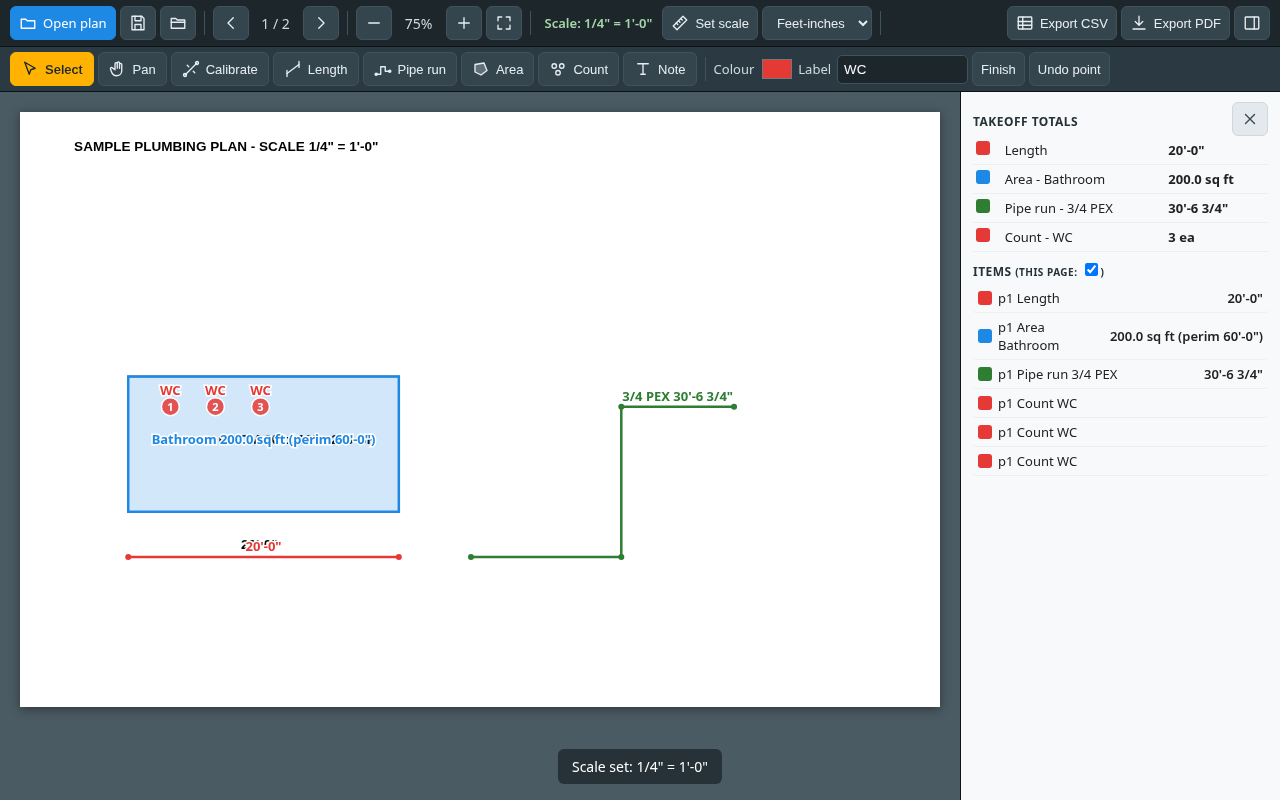
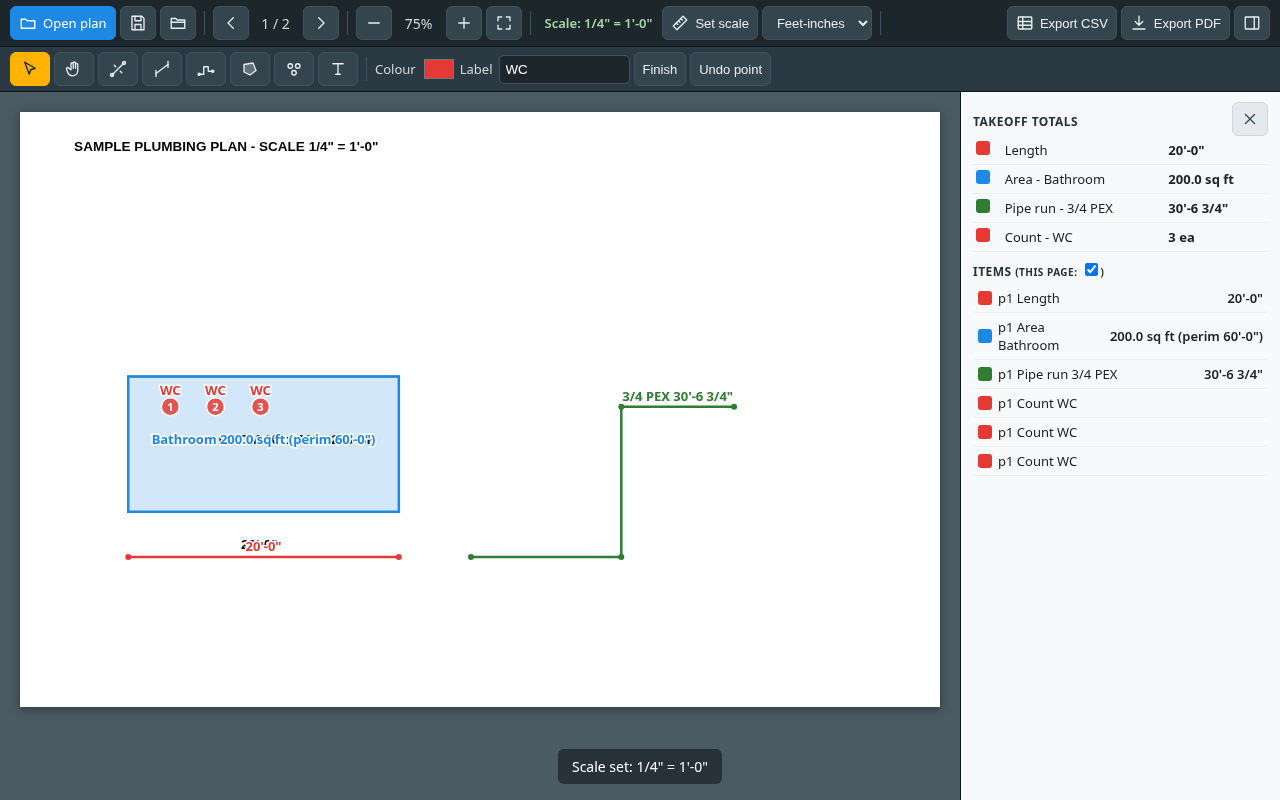
Magnifier loupe, touch press-drag placement, draggable/nudgeable calibration points

Changed region(s): [[0.0312, 0.0625, 0.6875, 0.125], [0.75, 0.0625, 0.875, 0.0938]]

diff --git a/app.js b/app.js
@@ -120,7 +120,8 @@ function draw() {
   svg.innerHTML = ''; if (!proj) return;
   const g = el('g', {}, svg);
   proj.items.filter(i => i.page === page).forEach(i => drawItem(i, g));
-  if (draft) { const pts = hover ? draft.pts.concat([hover]) : draft.pts; if (pts.length) drawItem({ ...draft, pts, page, label: draft.label }, g, true); }
+  if (draft) { const full = draft.type === 'calibrate' && draft.pts.length === 2; const pts = hover && !full ? draft.pts.concat([hover]) : draft.pts; if (pts.length) drawItem({ ...draft, pts, page, label: draft.label }, g, true);
+    const q = draft.pts[calSel]; if (q) el('circle', { cx: q[0], cy: q[1], r: 7 / zoom, fill: 'none', stroke: '#ffb300', 'stroke-width': 2.5 / zoom }, g); }
   renderList();
 }
 
@@ -186,6 +187,7 @@ function pagePt(e) { const r = svg.getBoundingClientRect(); return [(e.clientX -
 
 function finishDraft() {
   if (!draft) return;
+  if (draft.type === 'calibrate') { if (draft.pts.length === 2) openCalibrate(); return; }
   const need = { line: 2, poly: 2, area: 3 }[draft.type];
   if (draft.pts.length >= need) { const it = { id: uid(), type: draft.type, page, pts: draft.pts, color: draft.color, label: draft.label }; proj.items.push(it); selId = null; }
   draft = null; hover = null; changed();
@@ -200,9 +202,10 @@ function clickAt(p, e) {
     if (!draft) draft = { type: tool, pts: [], color: tool === 'calibrate' ? '#1976d2' : color, label: lab };
     const prev = draft.pts[draft.pts.length - 1]; if (e.shiftKey || shiftDown) p = snapOrtho(prev, p);
     if (prev && dist(prev, p) < 1e-6) return;
-    draft.pts.push(p);
+    if (tool === 'calibrate' && draft.pts.length >= 2) return;
+    draft.pts.push(p); calSel = draft.pts.length - 1;
     if ((tool === 'line' || tool === 'calibrate') && draft.pts.length === 2) {
-      if (tool === 'line') finishDraft(); else openCalibrate();
+      if (tool === 'line') finishDraft(); else { calSel = 1; toast('Adjust points if needed (drag, arrows), then Set distance.', 4000); }
     }
     draw();
   } else if (tool === 'count') { proj.items.push({ id: uid(), type: 'count', page, pts: [p], color, label: lab }); changed(); }
@@ -213,10 +216,12 @@ function clickAt(p, e) {
 const pointers = new Map(); let gesture = null;
 vpEl.addEventListener('pointerdown', e => {
   if (!doc) return; vpEl.setPointerCapture(e.pointerId); pointers.set(e.pointerId, { x: e.clientX, y: e.clientY });
-  if (pointers.size === 2) { const [a, b] = [...pointers.values()]; gesture = { kind: 'pinch', d: Math.hypot(a.x - b.x, a.y - b.y), z: zoom }; return; }
+  if (pointers.size === 2) { const [a, b] = [...pointers.values()]; gesture = { kind: 'pinch', d: Math.hypot(a.x - b.x, a.y - b.y), z: zoom, mx: (a.x + b.x) / 2, my: (a.y + b.y) / 2 }; hideLoupe(); return; }
   const p = pagePt(e);
   gesture = { kind: 'maybe', sx: e.clientX, sy: e.clientY, sl: vpEl.scrollLeft, st: vpEl.scrollTop, p, moved: false };
   if (e.button === 1 || tool === 'pan') { gesture.kind = 'pan'; return; }
+  if (draft && PLACE.includes(tool)) { const k = draft.pts.findIndex(q => dist(q, p) * zoom < (e.pointerType === 'touch' ? 22 : 10)); if (k >= 0 && (draft.type === 'calibrate' ? draft.pts.length === 2 : true)) { gesture.kind = 'dpt'; gesture.v = k; calSel = k; gesture.off = [draft.pts[k][0] - p[0], draft.pts[k][1] - p[1]]; showLoupe(draft.pts[k], e); draw(); return; } }
+  if (e.pointerType !== 'mouse' && PLACE.includes(tool) && !(tool === 'calibrate' && draft && draft.pts.length === 2)) { gesture.kind = 'place'; hover = placeSnap(p, e); showLoupe(hover, e); draw(); return; }
   if (tool === 'select') {
     const h = e.target.closest('.handle'), g = e.target.closest('g[data-id]');
     if (h && selId) { gesture.kind = 'vertex'; gesture.v = +h.dataset.v; return; }
@@ -227,21 +232,26 @@ vpEl.addEventListener('pointerdown', e => {
 vpEl.addEventListener('pointermove', e => {
   if (!doc) return;
   if (pointers.has(e.pointerId)) pointers.set(e.pointerId, { x: e.clientX, y: e.clientY });
-  if (gesture && gesture.kind === 'pinch' && pointers.size === 2) { const [a, b] = [...pointers.values()]; setZoom(gesture.z * Math.hypot(a.x - b.x, a.y - b.y) / gesture.d, (a.x + b.x) / 2, (a.y + b.y) / 2); return; }
+  if (gesture && gesture.kind === 'pinch' && pointers.size === 2) { const [a, b] = [...pointers.values()]; const mx = (a.x + b.x) / 2, my = (a.y + b.y) / 2; setZoom(gesture.z * Math.hypot(a.x - b.x, a.y - b.y) / gesture.d, mx, my); vpEl.scrollLeft -= mx - gesture.mx; vpEl.scrollTop -= my - gesture.my; gesture.mx = mx; gesture.my = my; return; }
   const p = pagePt(e);
   if (gesture) {
     const mv = Math.hypot(e.clientX - gesture.sx, e.clientY - gesture.sy) > 5; if (mv) gesture.moved = true;
     if (gesture.kind === 'pan' || (gesture.kind === 'maybe' && gesture.moved && e.pointerType === 'touch')) { gesture.kind = 'pan'; vpEl.scrollLeft = gesture.sl - (e.clientX - gesture.sx); vpEl.scrollTop = gesture.st - (e.clientY - gesture.sy); return; }
+    if (gesture.kind === 'place') { hover = placeSnap(p, e); draw(); showLoupe(hover, e); return; }
+    if (gesture.kind === 'dpt') { draft.pts[gesture.v] = [p[0] + gesture.off[0], p[1] + gesture.off[1]]; draw(); showLoupe(draft.pts[gesture.v], e); return; }
     if (gesture.kind === 'vertex') { const it = selItem(); let q = p; const prev = it.pts[gesture.v - 1] || it.pts[gesture.v + 1]; if (e.shiftKey) q = snapOrtho(prev, q); it.pts[gesture.v] = q; draw(); return; }
     if (gesture.kind === 'move' && gesture.moved) { const it = selItem(); const dx = p[0] - gesture.p[0], dy = p[1] - gesture.p[1]; it.pts = gesture.orig.map(q => [q[0] + dx, q[1] + dy]); draw(); return; }
   }
   if (draft) { const prev = draft.pts[draft.pts.length - 1]; hover = (e.shiftKey || shiftDown) ? snapOrtho(prev, p) : p; draw(); }
+  if (PLACE.includes(tool) && !(draft && draft.type === 'calibrate' && draft.pts.length === 2)) showLoupe(placeSnap(p, e), e); else if (!gesture) hideLoupe();
 });
 function endPointer(e) {
   pointers.delete(e.pointerId);
   if (!gesture) return; const g = gesture;
   if (g.kind === 'pinch') { if (pointers.size === 0) gesture = null; return; }
   gesture = null;
+  if (g.kind === 'place') { hideLoupe(); hover = null; if (e.type === 'pointerup') clickAt(pagePt(e), e); else draw(); return; }
+  if (g.kind === 'dpt') { if (e.pointerType !== 'mouse') hideLoupe(); draw(); return; }
   if (g.kind === 'vertex' || g.kind === 'move') { changed(); return; }
   if (g.kind === 'pan') { if (g.desel && !g.moved) { selId = null; draw(); } return; }
   if (g.kind === 'maybe' && !g.moved && e.type === 'pointerup') clickAt(pagePt(e), e);
@@ -252,7 +262,10 @@ vpEl.addEventListener('dblclick', e => { if (draft && (draft.type === 'poly' || 
 document.addEventListener('keydown', e => {
   if (e.key === 'Shift') shiftDown = true;
   if (e.target.matches('input,textarea,select')) return;
-  if (e.key === 'Enter') finishDraft();
+  if (e.key.startsWith('Arrow') && draft && draft.pts.length) { e.preventDefault(); const d = { ArrowLeft: [-1, 0], ArrowRight: [1, 0], ArrowUp: [0, -1], ArrowDown: [0, 1] }[e.key]; nudge(d[0], d[1]); return; }
+  if (e.key.toLowerCase() === 'm' && !e.ctrlKey && !e.metaKey) { toggleLoupe(); return; }
+  if (e.key === 'Tab' && draft && draft.pts.length > 1) { e.preventDefault(); calSel = (calSel + 1) % draft.pts.length; draw(); return; }
+  if (e.key === 'Enter') { e.preventDefault(); finishDraft(); }
   else if (e.key === 'Escape') { draft = null; hover = null; selId = null; draw(); }
   else if (e.key === 'Delete' || (e.key === 'Backspace' && !draft)) deleteSel();
   else if (e.key === 'Backspace' && draft) { draft.pts.pop(); if (!draft.pts.length) draft = null; draw(); }
@@ -269,8 +282,9 @@ $('#scaleDlg').addEventListener('close', () => { if ($('#scaleDlg').returnValue 
   let m = s.mPerPt; if (doc.type === 'image') m = s.ratio * Units.IN / (+$('#imgDpi').value || 150); applyScale(m, s.name, $('#allPages').checked); });
 function openCalibrate() { $('#calVal').value = ''; $('#calDlg').showModal(); }
 $('#calDlg').addEventListener('close', () => {
-  const pts = draft && draft.pts; draft = null; hover = null;
+  const pts = draft && draft.pts;
   if ($('#calDlg').returnValue === 'ok' && pts && pts.length === 2) {
+    draft = null; hover = null;
     const real = Units.parseLength($('#calVal').value, proj.units);
     if (!(real > 0)) { toast('Could not read that length. Try again.'); draw(); return; }
     applyScale(real / dist(pts[0], pts[1]), 'calibrated ' + Units.fmtLen(real, proj.units), $('#calAll').checked);
@@ -348,7 +362,7 @@ $('#projList').addEventListener('click', async e => { const o = e.target.dataset
 setTool('select'); $('#hint').textContent = 'Open a PDF or image plan to start. Your work is saved automatically in this browser.';
 (async () => { const last = localStorage.getItem('pm-last'); if (last) try { await openProject(last); } catch (e) { } })();
 // test hook
-window.PM = { get proj() { return proj; }, get doc() { return doc; }, measure, buildCSV, buildPDF, setTool, gotoPage, applyScale, get zoom() { return zoom; } };
+window.PM = { get draft() { return draft; }, get proj() { return proj; }, get doc() { return doc; }, measure, buildCSV, buildPDF, setTool, gotoPage, applyScale, get zoom() { return zoom; } };
 $('#calVal').addEventListener('keydown', e => { if (e.key === 'Enter') { e.preventDefault(); $('#calDlg').close('ok'); } });
 // ---- icons (inline SVG, no external assets) ----
 const ICONS = {
@@ -357,7 +371,7 @@ const ICONS = {
  fit:'<path d="M4 9V4h5M20 9V4h-5M4 15v5h5M20 15v5h-5"/>', ruler:'<path d="M3 16L16 3l5 5L8 21z"/><path d="M7 12l2 2M10 9l2 2M13 6l2 2"/>',
  table:'<rect x="3" y="4" width="18" height="16" rx="1"/><path d="M3 10h18M3 15h18M9 4v16"/>', download:'<path d="M12 3v12M7 10l5 5 5-5M4 20h16"/>',
  panel:'<rect x="3" y="4" width="18" height="16" rx="1"/><path d="M15 4v16"/>', close:'<path d="M6 6l12 12M18 6L6 18"/>',
- select:'<path d="M5 3l14 8-6 2-2 6z"/>', hand:'<path d="M8 13V5a1.5 1.5 0 013 0v6M11 11V4a1.5 1.5 0 013 0v7M14 11V6a1.5 1.5 0 013 0v8c0 4-3 7-7 7s-6-3-7-6l-1-3a1.5 1.5 0 012.5-1.5L8 13"/>',
+ select:'<path d="M5 3l14 8-6 2-2 6z"/>', loupe:'<circle cx="10" cy="10" r="6"/><path d="M14.5 14.5L20 20M10 7v6M7 10h6"/>', up:'<path d="M5 15l7-7 7 7"/>', down:'<path d="M5 9l7 7 7-7"/>', more:'<circle cx="5" cy="12" r="1.6"/><circle cx="12" cy="12" r="1.6"/><circle cx="19" cy="12" r="1.6"/>', hand:'<path d="M8 13V5a1.5 1.5 0 013 0v6M11 11V4a1.5 1.5 0 013 0v7M14 11V6a1.5 1.5 0 013 0v8c0 4-3 7-7 7s-6-3-7-6l-1-3a1.5 1.5 0 012.5-1.5L8 13"/>',
  cal:'<path d="M4 20L20 4"/><circle cx="4" cy="20" r="2"/><circle cx="20" cy="4" r="2"/><path d="M9 9l-2-2M15 15l2 2"/>', line:'<path d="M4 18L20 6"/><path d="M4 14v8M20 2v8"/>',
  poly:'<path d="M3 19h6V9h6v6h6"/><circle cx="3" cy="19" r="1.5"/><circle cx="21" cy="15" r="1.5"/>', area:'<path d="M4 6l12-2 4 10-8 6-8-4z" fill="currentColor" fill-opacity=".25"/>',
  count:'<circle cx="7" cy="8" r="3"/><circle cx="17" cy="8" r="3"/><circle cx="12" cy="17" r="3"/>', text:'<path d="M5 5h14M12 5v14M9 19h6"/>'
@@ -402,3 +416,65 @@ function updateSheet() { if (!proj) return; const g = groups(); $('#units2').val
   $('.chev').textContent = document.body.classList.contains('sheetopen') ? 'Hide' : 'Show'; }
 document.addEventListener('gesturestart', e => e.preventDefault());
 placeDrawControls(); layout();
+// ---- magnifier loupe + nudge ----
+ICONS.loupe = '<circle cx="10" cy="10" r="6"/><path d="M14.5 14.5L20 20M10 7v6M7 10h6"/>';
+ICONS.up = '<path d="M5 15l7-7 7 7"/>'; ICONS.down = '<path d="M5 9l7 7 7-7"/>';
+document.querySelectorAll('#loupeBtn,.nud').forEach(b => { if (b.querySelector('svg')) return; const txt = b.textContent.trim(); b.textContent = ''; b.insertAdjacentHTML('afterbegin', `<svg class="ic" viewBox="0 0 24 24">${ICONS[b.dataset.icon]}</svg>` + (txt ? `<span class="t">${txt}</span>` : '')); });
+const PLACE = ['calibrate', 'line', 'poly', 'area'];
+let calSel = 0, loupeOn = localStorage.getItem('pm-loupe') !== '0', loupeTask = null, loupeBusy = false, loupeWant = null;
+const LSZ = 140, lc = $('#loupe');
+function placeSnap(p, e) { if (!draft || !draft.pts.length || !(e.shiftKey || shiftDown)) return p; return snapOrtho(draft.pts[draft.pts.length - 1], p); }
+function toggleLoupe() { loupeOn = !loupeOn; localStorage.setItem('pm-loupe', loupeOn ? '1' : '0'); $('#loupeBtn').classList.toggle('on', loupeOn); if (!loupeOn) hideLoupe(); toast('Magnifier ' + (loupeOn ? 'on' : 'off')); }
+$('#loupeBtn').classList.toggle('on', loupeOn); $('#loupeBtn').onclick = toggleLoupe;
+function hideLoupe() { lc.style.display = 'none'; loupeWant = null; }
+function showLoupe(p, e) {
+  if (!loupeOn || !doc || !p) return hideLoupe();
+  const dpr = window.devicePixelRatio || 1, L = Math.round(LSZ * dpr);
+  if (lc.width !== L) { lc.width = L; lc.height = L; }
+  const touch = e.pointerType && e.pointerType !== 'mouse';
+  let x = touch ? e.clientX - LSZ / 2 : e.clientX + 24, y = touch ? e.clientY - LSZ - 60 : e.clientY - LSZ - 24;
+  if (y < 4) y = touch ? e.clientY + 60 : e.clientY + 24; x = Math.max(4, Math.min(innerWidth - LSZ - 4, x));
+  if (!touch && x < e.clientX && x + LSZ > e.clientX && y < e.clientY && y + LSZ > e.clientY) x = e.clientX - LSZ - 24;
+  lc.style.left = x + 'px'; lc.style.top = y + 'px'; lc.style.display = 'block';
+  const mag = +$('#loupeMag').value, S = zoom * mag * dpr; // device px per page unit inside loupe
+  const ctx = lc.getContext('2d');
+  // instant preview from the main canvas
+  const k = canvas.width / doc.sizes[page].w, half = L / 2 / S;
+  ctx.fillStyle = '#fff'; ctx.fillRect(0, 0, L, L);
+  if (canvas.width) ctx.drawImage(canvas, (p[0] - half) * k, (p[1] - half) * k, 2 * half * k, 2 * half * k, 0, 0, L, L);
+  loupeOverlay(ctx, p, S, L);
+  loupeWant = { p: p.slice(), S, L, pg: page }; sharpLoupe();
+}
+async function sharpLoupe() {
+  if (loupeBusy || !loupeWant) return; const w = loupeWant; loupeBusy = true;
+  try {
+    const off = document.createElement('canvas'); off.width = w.L; off.height = w.L; const oc = off.getContext('2d'); oc.fillStyle = '#fff'; oc.fillRect(0, 0, w.L, w.L);
+    if (doc.type === 'pdf') { const pg = await doc.pdf.getPage(w.pg); const vp = pg.getViewport({ scale: w.S, offsetX: -(w.p[0] * w.S - w.L / 2), offsetY: -(w.p[1] * w.S - w.L / 2) });
+      await pg.render({ canvasContext: oc, viewport: vp }).promise; }
+    else { const h = w.L / 2 / w.S; oc.imageSmoothingEnabled = false; oc.drawImage(doc.img, w.p[0] - h, w.p[1] - h, 2 * h, 2 * h, 0, 0, w.L, w.L); }
+    if (loupeWant && lc.style.display !== 'none' && loupeWant.pg === w.pg) { const cur = loupeWant, ctx = lc.getContext('2d');
+      if (cur.p[0] === w.p[0] && cur.p[1] === w.p[1] && cur.S === w.S) { ctx.drawImage(off, 0, 0); loupeOverlay(ctx, w.p, w.S, w.L); lc.dataset.sharp = '1'; } }
+  } catch (err) { }
+  loupeBusy = false; if (loupeWant && (loupeWant.p[0] !== w.p[0] || loupeWant.p[1] !== w.p[1] || loupeWant.S !== w.S)) { lc.dataset.sharp = ''; setTimeout(sharpLoupe, 30); }
+}
+function loupeOverlay(ctx, p, S, L) {
+  const T = q => [(q[0] - p[0]) * S + L / 2, (q[1] - p[1]) * S + L / 2], dpr = window.devicePixelRatio || 1;
+  if (draft && draft.pts.length) { ctx.strokeStyle = draft.color; ctx.lineWidth = 1.5 * dpr; ctx.beginPath(); draft.pts.forEach((q, i) => { const [x, y] = T(q); i ? ctx.lineTo(x, y) : ctx.moveTo(x, y); }); if (!(draft.type === 'calibrate' && draft.pts.length === 2) && hover) { const [x, y] = T(hover); ctx.lineTo(x, y); } ctx.stroke();
+    draft.pts.forEach((q, i) => { const [x, y] = T(q); ctx.beginPath(); ctx.arc(x, y, (i === calSel ? 5 : 3) * dpr, 0, 7); ctx.strokeStyle = i === calSel ? '#ffb300' : draft.color; ctx.stroke(); }); }
+  ctx.strokeStyle = '#e53935'; ctx.lineWidth = 1 * dpr; const c = L / 2, g = 6 * dpr; ctx.beginPath();
+  ctx.moveTo(0, c); ctx.lineTo(c - g, c); ctx.moveTo(c + g, c); ctx.lineTo(L, c); ctx.moveTo(c, 0); ctx.lineTo(c, c - g); ctx.moveTo(c, c + g); ctx.lineTo(c, L); ctx.stroke();
+  ctx.fillStyle = '#e53935'; ctx.fillRect(c - dpr / 2, c - dpr / 2, dpr, dpr);
+  ctx.fillStyle = '#263238cc'; ctx.fillRect(L / 2 - 16 * dpr, L - 18 * dpr, 32 * dpr, 14 * dpr); ctx.fillStyle = '#fff'; ctx.font = `${10 * dpr}px sans-serif`; ctx.textAlign = 'center'; ctx.fillText($('#loupeMag').value + 'x', L / 2, L - 7 * dpr);
+}
+function nudge(dx, dy) { if (!draft || !draft.pts.length) return; const i = Math.min(calSel, draft.pts.length - 1), q = draft.pts[i]; draft.pts[i] = [q[0] + dx / zoom, q[1] + dy / zoom]; draw();
+  const r = svg.getBoundingClientRect(); showLoupe(draft.pts[i], { clientX: r.left + draft.pts[i][0] * zoom, clientY: r.top + draft.pts[i][1] * zoom, pointerType: phoneMQ.matches ? 'touch' : 'mouse' }); clearTimeout(nudge.t); nudge.t = setTimeout(hideLoupe, 1500); }
+document.querySelectorAll('.nud').forEach(b => b.onclick = () => { const [x, y] = b.dataset.n.split(',').map(Number); nudge(x, y); });
+$('#ptSel').onclick = () => { if (draft && draft.pts.length > 1) { calSel = (calSel + 1) % draft.pts.length; draw(); } };
+$('#calSetBtn').onclick = () => finishDraft();
+$('#loupeMag').addEventListener('change', () => { if (loupeWant) { const r = svg.getBoundingClientRect(); } });
+vpEl.addEventListener('pointerleave', e => { if (e.pointerType === 'mouse' && !gesture) hideLoupe(); });
+const _udb = updateDrawBar; updateDrawBar = function () { _udb(); const adj = !!draft && draft.pts.length > 0 && PLACE.includes(tool);
+  document.body.classList.toggle('adj', adj); document.body.classList.toggle('caladj', !!draft && draft.type === 'calibrate' && draft.pts.length === 2);
+  document.body.classList.toggle('placing', PLACE.includes(tool)); $('#ptSel').textContent = 'Point ' + (Math.min(calSel, draft ? draft.pts.length - 1 : 0) + 1); };
+const _setTool = setTool; setTool = function (t) { hideLoupe(); _setTool(t); };
+document.querySelectorAll('.tool').forEach(b => b.onclick = () => setTool(b.dataset.tool));

diff --git a/index.html b/index.html
@@ -34,6 +34,8 @@
   <button data-tool="text" data-icon="text" class="tool" title="Text note (T)">Note</button>
   <span class="sep"></span><div class="opt"><label>Colour <input id="color" type="color" value="#e53935"></label></div>
   <div class="opt"><label>Label <input id="label" type="text" placeholder="e.g. WC, 3/4 PEX" size="10"></label></div>
+  <div class="opt lp"><button id="loupeBtn" class="btn small on" data-icon="loupe" title="Magnifier (M)">Loupe</button><select id="loupeMag" title="Magnifier zoom"><option value="2">2x</option><option value="3">3x</option><option value="4" selected>4x</option><option value="6">6x</option><option value="8">8x</option></select></div>
+  <div class="opt calbar"><button id="ptSel" class="btn small" title="Choose point to nudge (Tab)">Point 2</button><button class="btn small nud" data-n="-1,0" title="Nudge left" data-icon="left"></button><button class="btn small nud" data-n="0,-1" title="Nudge up" data-icon="up"></button><button class="btn small nud" data-n="0,1" title="Nudge down" data-icon="down"></button><button class="btn small nud" data-n="1,0" title="Nudge right" data-icon="right"></button><button id="calSetBtn" class="btn small primary" title="Enter the known distance (Enter)">Set distance</button></div>
   <button id="finishBtn" class="btn small" title="Finish run / area (Enter)">Finish</button>
   <button id="undoPt" class="btn small" title="Remove last point (Backspace)">Undo point</button>
   <div class="hint" id="hint">Open a PDF or image plan to start.</div>
@@ -87,6 +89,7 @@
   <menu><button value="cancel" class="btn">Close</button></menu>
 </form></dialog>
 <div id="toast"></div>
+<canvas id="loupe" width="140" height="140"></canvas>
 <script src="lib/pdf.min.js"></script>
 <script src="lib/pdf-lib.min.js"></script>
 <script src="units.js"></script>

diff --git a/style.css b/style.css
@@ -123,3 +123,22 @@ button,label,select,input{touch-action:manipulation}
   #moreBtn{margin-left:0}#moreBtn .t{display:none}
   #toast{bottom:calc(150px + env(safe-area-inset-bottom));max-width:90vw;text-align:center}
 }
+/* ---- loupe ---- */
+#loupe{position:fixed;width:140px;height:140px;border-radius:50%;border:3px solid #263238;box-shadow:0 4px 18px #0007,0 0 0 2px #fff inset;pointer-events:none;z-index:30;display:none;background:#fff}
+#loupeBtn.on{background:#1e88e5;border-color:#1e88e5;color:#fff}
+.opt.lp{display:none;gap:4px;align-items:center}body.placing .opt.lp{display:flex}
+.opt.lp select{min-height:30px;padding:2px 4px}
+.opt.calbar{display:none;gap:4px;align-items:center}body.adj .opt.calbar{display:flex}
+body:not(.caladj) #calSetBtn{display:none}
+.nud{padding:4px 6px!important}
+@media (max-width:700px){
+  body.cal #drawSlot .opt.lp,body.cal #drawSlot .opt.calbar{display:none}
+  body.cal.placing #drawSlot .opt.lp{display:flex}body.cal.adj #drawSlot .opt.calbar{display:flex}
+  body.adj #drawSlot .opt.lp{display:none}
+  #drawSlot{overflow-x:auto}
+  .nud{min-width:40px;justify-content:center}
+}
+@media (min-width:701px){#tools{flex-wrap:nowrap;overflow-x:auto;scrollbar-width:thin}#tools>*{flex:none}#tools .hint{flex:1 1 0;min-width:0;white-space:nowrap;overflow:hidden;text-overflow:ellipsis}}
+@media (min-width:701px) and (max-width:1500px){#tools .tool span.t{display:none}}
+@media (max-width:700px){body.caladj #undoPt{display:none}body.caladj #cancelBtn .t{display:none}body.caladj #ptSel{padding:4px 6px}}
+@media (max-width:700px){body.cal.adj.placing #drawSlot .opt.lp,body.adj.placing #drawSlot .opt.lp{display:none}}

diff --git a/test/loupe.py b/test/loupe.py
@@ -1,0 +1,51 @@
+# Loupe + nudge + touch press-drag-release placement test, also saves screenshots.
+import sys
+from playwright.sync_api import sync_playwright
+URL=sys.argv[1]; H=792; MM=72/25.4; ok=True
+def chk(n,c):
+    global ok; ok&=bool(c); print(('PASS ' if c else 'FAIL ')+n)
+with sync_playwright() as p:
+    b=p.chromium.launch(executable_path='/usr/bin/google-chrome',args=['--no-sandbox'])
+    # ---- desktop ----
+    pg=b.new_page(viewport={'width':1600,'height':950}); errs=[]; pg.on('pageerror',lambda e:errs.append(str(e)))
+    pg.goto(URL); pg.set_input_files('#file','test/sample-plan.pdf'); pg.wait_for_function('window.PM.proj'); pg.wait_for_timeout(400)
+    pg.click('#next'); pg.wait_for_timeout(500)
+    def scr(x,y):
+        r=pg.evaluate("(()=>{const r=document.querySelector('#svg').getBoundingClientRect();return [r.left,r.top]})()"); z=pg.evaluate('PM.zoom'); return r[0]+x*z, r[1]+(H-y)*z
+    pg.click('[data-tool=calibrate]'); x,y=scr(144,300); pg.mouse.move(x,y); pg.wait_for_timeout(300)
+    chk('desktop loupe visible on hover', pg.is_visible('#loupe')); pg.mouse.click(x,y)
+    x2,y2=scr(144+50*MM,300); pg.mouse.click(x2+3,y2)   # deliberately 3 screen px off
+    for _ in range(3): pg.keyboard.press('ArrowLeft')
+    pg.wait_for_function("document.querySelector('#loupe').dataset.sharp==='1'",timeout=5000)
+    pg.screenshot(path='shots/desktop-loupe-calibrate.png')
+    pg.click('#calSetBtn'); pg.fill('#calVal','5m'); pg.keyboard.press('Enter'); pg.wait_for_timeout(200)
+    sc=pg.evaluate('PM.proj.scales[2]'); exp=0.0254/72*100; e=abs(sc-exp)/exp*100; chk(f'desktop nudge-corrected calibration err {e:.3f}%', e<0.5)
+    # drag a calibration point before confirming
+    pg.click('[data-tool=calibrate]'); a=scr(144,300); bb=scr(144+50*MM,300); pg.mouse.click(*a); pg.mouse.click(bb[0]+15,bb[1])
+    pg.mouse.move(bb[0]+15,bb[1]); pg.mouse.down(); pg.mouse.move(bb[0]+5,bb[1],steps=5); pg.mouse.move(bb[0],bb[1],steps=5); pg.mouse.up()
+    pg.keyboard.press('Enter'); pg.fill('#calVal','5000mm',timeout=3000); pg.keyboard.press('Enter'); pg.wait_for_timeout(200)
+    sc=pg.evaluate('PM.proj.scales[2]'); e=abs(sc-exp)/exp*100; chk(f'desktop drag-corrected calibration err {e:.3f}%', e<0.5)
+    pg.keyboard.press('m'); chk('M toggles loupe off', not pg.evaluate("document.querySelector('#loupeBtn').classList.contains('on')")); pg.keyboard.press('m')
+    chk('desktop no errors '+str(errs), not errs); pg.close()
+    # ---- phone: press-drag-release ----
+    ctx=b.new_context(viewport={'width':390,'height':844},device_scale_factor=3,is_mobile=True,has_touch=True)
+    pg=ctx.new_page(); pg.on('pageerror',lambda e:errs.append(str(e))); pg.goto(URL)
+    pg.set_input_files('#file2','test/sample-plan.pdf'); pg.wait_for_function('window.PM.proj'); pg.wait_for_timeout(400)
+    pg.tap('#next'); pg.wait_for_timeout(500); pg.tap('[data-tool=calibrate]')
+    cdp=ctx.new_cdp_session(pg)
+    def T(t,x,y): cdp.send('Input.dispatchTouchEvent',{'type':t,'touchPoints':[] if t=='touchEnd' else [{'x':x,'y':y}]})
+    def press_drag(target, start_off, shot=None):
+        tx,ty=scr(*target); T('touchStart',tx+start_off[0],ty+start_off[1])
+        for i in range(1,11): T('touchMove',tx+start_off[0]*(1-i/10),ty+start_off[1]*(1-i/10)); pg.wait_for_timeout(20)
+        pg.wait_for_timeout(300)
+        if shot:
+            pg.wait_for_function("document.querySelector('#loupe').dataset.sharp==='1'",timeout=5000); chk('phone loupe visible during drag', pg.is_visible('#loupe')); pg.screenshot(path=shot)
+        T('touchEnd',0,0); pg.wait_for_timeout(150)
+    press_drag((144,300),(30,25)); press_drag((144+50*MM,300),(-20,30),'shots/phone-loupe-calibrate.png')
+    pts=pg.evaluate('PM.proj && document.body.classList.contains("caladj")'); chk('phone calibration has 2 points (adjust mode)', pts)
+    pg.tap('.nud[data-n="1,0"]'); pg.tap('.nud[data-n="-1,0"]'); pg.wait_for_timeout(300)
+    pg.screenshot(path='shots/phone-calibrate-adjust.png')
+    pg.tap('#calSetBtn'); pg.fill('#calVal','5m'); pg.tap('#calDlg button[value=ok]'); pg.wait_for_timeout(200)
+    sc=pg.evaluate('PM.proj.scales[2]'); e=abs(sc-exp)/exp*100; chk(f'phone drag-placed calibration err {e:.3f}%', e<1)
+    chk('phone no errors '+str(errs), not errs); b.close()
+print('LOUPE PASS' if ok else 'LOUPE FAIL')

diff --git a/test/e2e.py b/test/e2e.py
@@ -36,7 +36,7 @@ with sync_playwright() as p:
     print('counts',sum(1 for i in items if i['t']=='count'))
     # page 2: calibrate on the 5 m line, then measure the 4x3 m rectangle
     pg.click('#next'); pg.wait_for_timeout(400); pg.select_option('#units','met')
-    pg.click('[data-tool=calibrate]'); click(144,300); click(144+50*MM,300); pg.fill('#calVal','5000mm'); pg.keyboard.press('Enter'); pg.wait_for_timeout(200)
+    pg.click('[data-tool=calibrate]'); click(144,300); click(144+50*MM,300); pg.click('#calSetBtn'); pg.fill('#calVal','5000mm'); pg.keyboard.press('Enter'); pg.wait_for_timeout(200)
     pg.click('[data-tool=line]'); click(144,400); click(144+40*MM,400)
     pg.click('[data-tool=area]')
     for x,y in [(144,400),(144+40*MM,400),(144+40*MM,400+30*MM),(144,400+30*MM)]: click(x,y)
